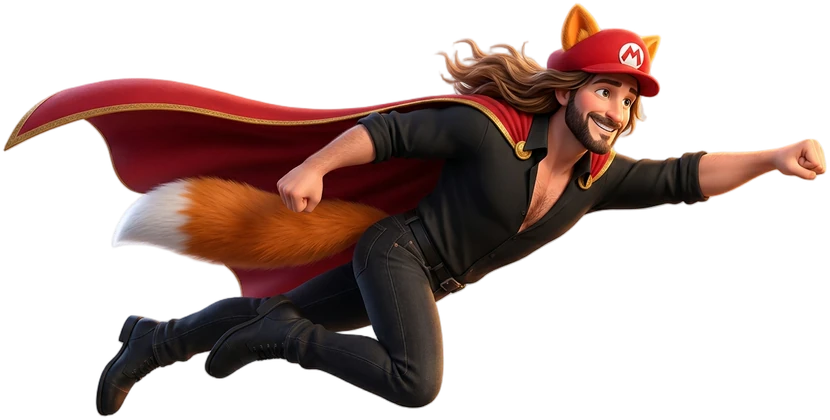
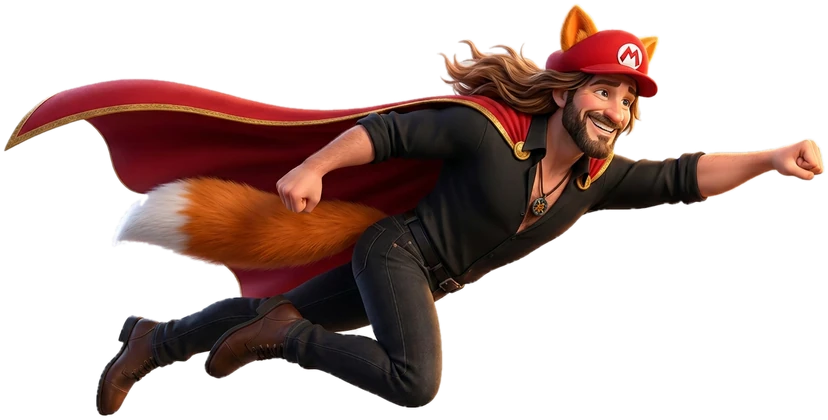
Justin guide: his pendant necklace, brown boots, closer likeness (both poses)

diff --git a/guide.js b/guide.js
@@ -69,7 +69,7 @@
 
   // two AI-rendered poses of Justin (cape, fox tail, his cap): hovering upright and flying
   const jg = document.createElement('div'); jg.className = 'jg'; jg.setAttribute('aria-hidden', 'true');
-  jg.innerHTML = `<div class="jg-fig" title="Justin — click for a tour"><div class="jg-bob"><img class="jg-img jg-hov" src="${root}assets/img/justin-hover.webp" alt="" draggable="false"><img class="jg-img jg-flyimg" src="${root}assets/img/justin-fly.webp" alt="" draggable="false"></div></div>`;
+  jg.innerHTML = `<div class="jg-fig" title="Justin — click for a tour"><div class="jg-bob"><img class="jg-img jg-hov" src="${root}assets/img/justin-hover.webp?v=2" alt="" draggable="false"><img class="jg-img jg-flyimg" src="${root}assets/img/justin-fly.webp?v=2" alt="" draggable="false"></div></div>`;
   const say = document.createElement('div'); say.className = 'jg-say'; say.setAttribute('role', 'dialog'); say.setAttribute('aria-live', 'polite');
   const mount = () => { document.body.appendChild(jg); document.body.appendChild(say) };
   document.body ? mount() : addEventListener('DOMContentLoaded', mount);

diff --git a/d/index.html b/d/index.html
@@ -483,6 +483,6 @@ ScrollTrigger.sort();ScrollTrigger.refresh();
 (()=>{const t=document.getElementById('tags');if(!t)return;const first=t.querySelector('.ltag[data-i="0"]');first&&first.classList.add('on');
   t.addEventListener('click',e=>{const l=e.target.closest('.jm-hanger');const g=l&&l.querySelector('.ltag');if(g&&window.__jmGo){window.__jmGo(+g.dataset.i);window.JM&&JM.tick(1.2,.12,'pop')}})})();
 </script>
-<script src="../guide.js?v=3" data-root="../" data-page="d"></script>
+<script src="../guide.js?v=4" data-root="../" data-page="d"></script>
 </body>
 </html>

diff --git a/a/index.html b/a/index.html
@@ -579,6 +579,6 @@ ready.then(()=>{if(skip){intro.progress(1)}else intro.play();
   w.addEventListener('pointerover',e=>{const h=e.target.closest('.jm-hanger');const im=h&&h.querySelector('img[data-tint]');if(im)set(im.dataset.tint)});
   w.querySelector('.wall').addEventListener('pointerleave',()=>set('#cf7a4c'))})();
 </script>
-<script src="../guide.js?v=3" data-root="../" data-page="a"></script>
+<script src="../guide.js?v=4" data-root="../" data-page="a"></script>
 </body>
 </html>

diff --git a/c/index.html b/c/index.html
@@ -529,6 +529,6 @@ ScrollTrigger.sort();ScrollTrigger.refresh();setTimeout(placePop,400);
     if(l==='Fact'){f.textContent='#Fact ✓';f.className='fact ok'}else if(l==='Fiction'){f.textContent='Nope — #Fact';f.className='fact no'}});
 })();
 </script>
-<script src="../guide.js?v=3" data-root="../" data-page="c"></script>
+<script src="../guide.js?v=4" data-root="../" data-page="c"></script>
 </body>
 </html>

diff --git a/l/index.html b/l/index.html
@@ -1155,6 +1155,6 @@ window.JustinOS = { open: launch, close: id => wins[id] && close(wins[id]), wins
 })();
 </script>
 <script src="../personality.js?v=2" data-root="../"></script>
-<script src="../guide.js?v=3" data-root="../" data-page="l"></script>
+<script src="../guide.js?v=4" data-root="../" data-page="l"></script>
 </body>
 </html>

diff --git a/n/index.html b/n/index.html
@@ -1371,6 +1371,6 @@ const st = $('#sticky'); if (!reduced) { st.style.opacity = 0; setTimeout(() => 
 })();
 </script>
 <script src="../personality.js?v=2" data-root="../"></script>
-<script src="../guide.js?v=3" data-root="../" data-page="n"></script>
+<script src="../guide.js?v=4" data-root="../" data-page="n"></script>
 </body>
 </html>

diff --git a/e/index.html b/e/index.html
@@ -580,6 +580,6 @@ $('#pix').addEventListener('click',()=>G.fromTo('#pix',{rotate:0},{keyframes:{ro
 ScrollTrigger.sort();ScrollTrigger.refresh();
 })();
 </script>
-<script src="../guide.js?v=3" data-root="../" data-page="e"></script>
+<script src="../guide.js?v=4" data-root="../" data-page="e"></script>
 </body>
 </html>

diff --git a/index.html b/index.html
@@ -593,6 +593,6 @@ function tick(now){requestAnimationFrame(tick);const dt=Math.min(.05,(now-last)/
   renderer.render(scene,cam)}
 requestAnimationFrame(tick);
 </script>
-<script src="guide.js?v=3" data-root="" data-page="b"></script>
+<script src="guide.js?v=4" data-root="" data-page="b"></script>
 </body>
 </html>

diff --git a/m/index.html b/m/index.html
@@ -1320,6 +1320,6 @@ body.prod #rail .car,body.prod #rail .fill{opacity:.25}
 })();
 </script>
 <script src="../personality.js?v=2" data-root="../"></script>
-<script src="../guide.js?v=3" data-root="../" data-page="m"></script>
+<script src="../guide.js?v=4" data-root="../" data-page="m"></script>
 </body>
 </html>

diff --git a/g/index.html b/g/index.html
@@ -987,6 +987,6 @@ const start = qs.get('panel') || location.hash.slice(1);
 if (PANELS[start]) setTimeout(() => openPanel(start), 900);
 })();
 </script>
-<script src="../guide.js?v=3" data-root="../" data-page="g"></script>
+<script src="../guide.js?v=4" data-root="../" data-page="g"></script>
 </body>
 </html>

diff --git a/j/index.html b/j/index.html
@@ -1042,6 +1042,6 @@ $('#cf').addEventListener('submit', e => {
 })();
 </script>
 <script src="../personality.js?v=2" data-root="../"></script>
-<script src="../guide.js?v=3" data-root="../" data-page="j"></script>
+<script src="../guide.js?v=4" data-root="../" data-page="j"></script>
 </body>
 </html>

diff --git a/k/index.html b/k/index.html
@@ -995,6 +995,6 @@ addEventListener('scroll',()=>{
 })();
 </script>
 <script src="../personality.js?v=2" data-root="../"></script>
-<script src="../guide.js?v=3" data-root="../" data-page="k"></script>
+<script src="../guide.js?v=4" data-root="../" data-page="k"></script>
 </body>
 </html>
